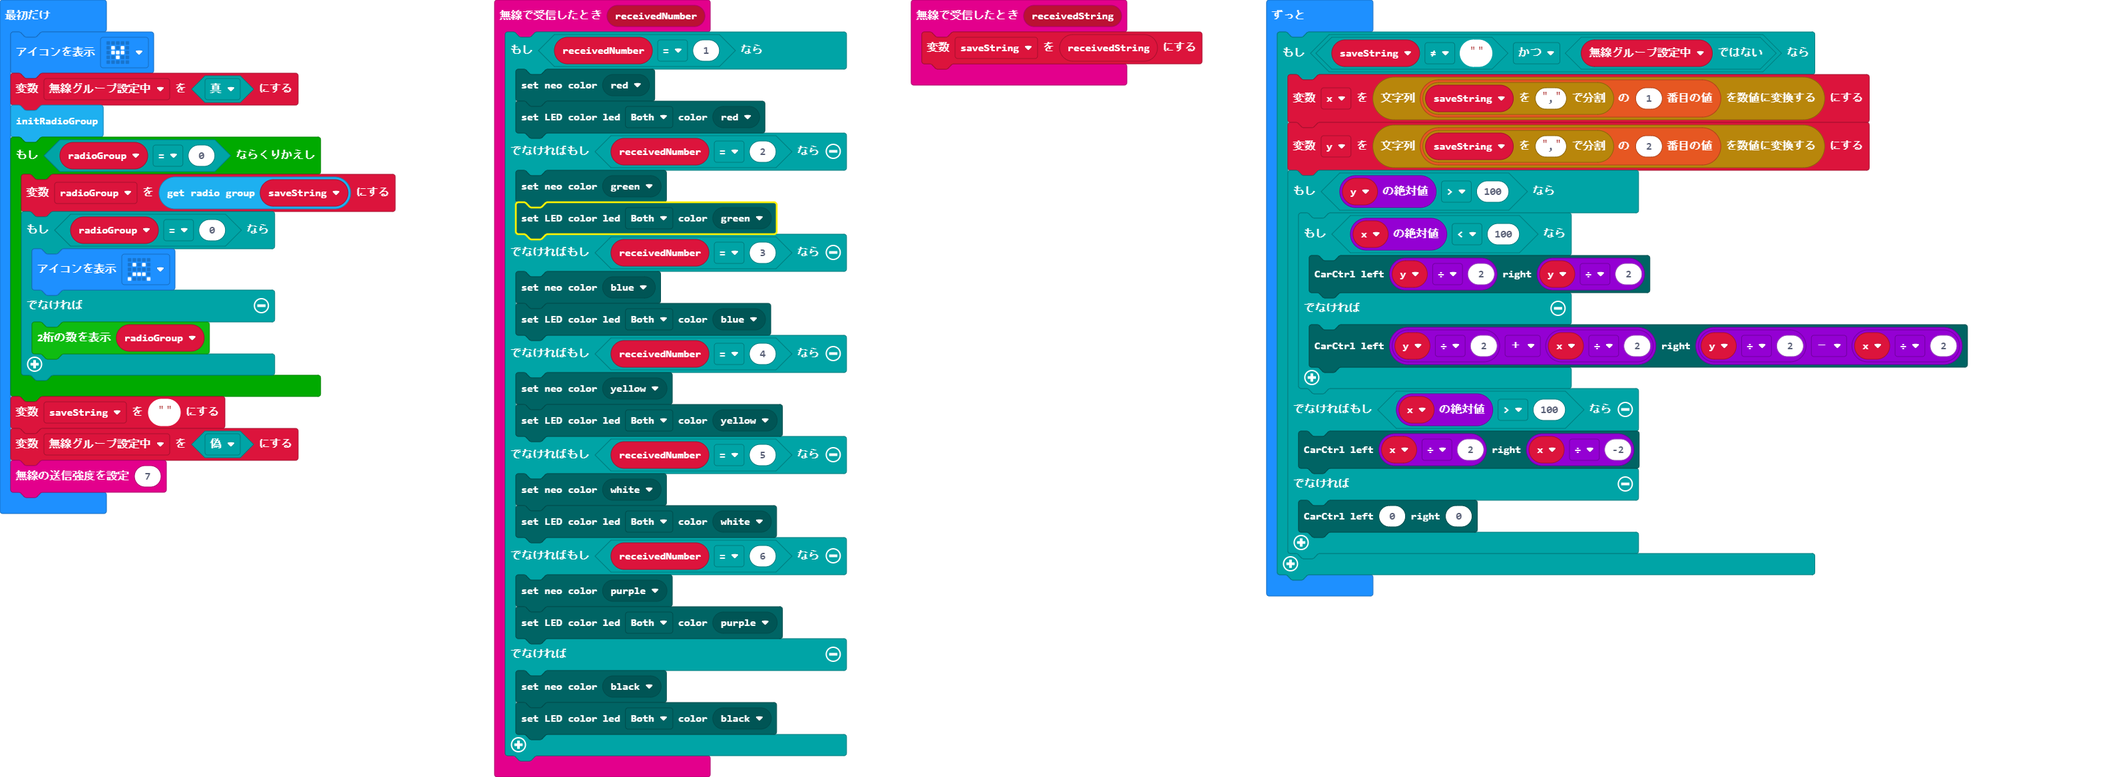
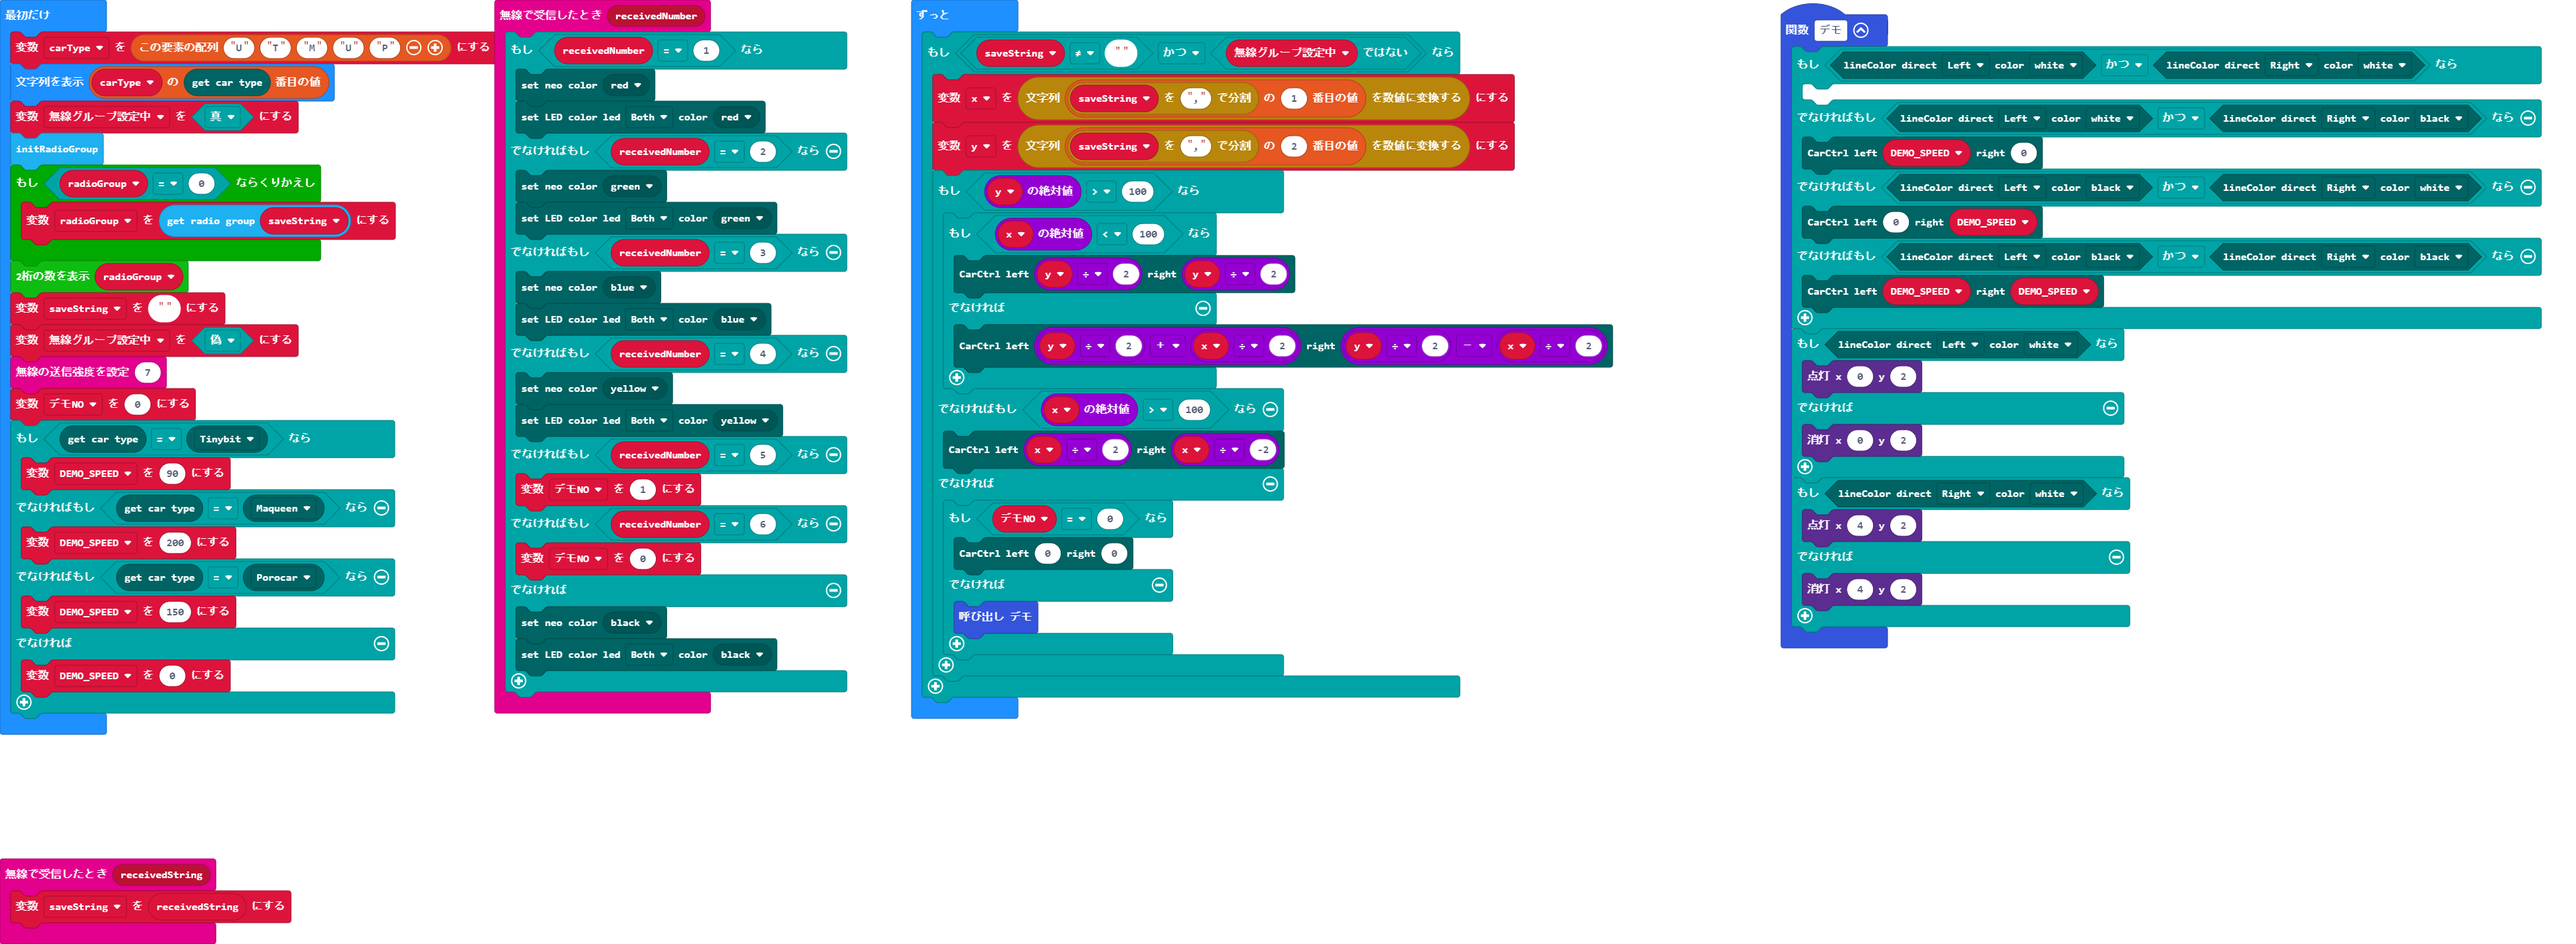
更新 pxt.json, main.blocks, main.ts

diff --git a/main.ts b/main.ts
@@ -1,3 +1,24 @@
+function デモ () {
+    if (carcotrol.getLineColor(Position.Left, lineColor.White) && carcotrol.getLineColor(Position.Right, lineColor.White)) {
+    	
+    } else if (carcotrol.getLineColor(Position.Left, lineColor.White) && carcotrol.getLineColor(Position.Right, lineColor.Black)) {
+        carcotrol.carCtrl(DEMO_SPEED, 0)
+    } else if (carcotrol.getLineColor(Position.Left, lineColor.Black) && carcotrol.getLineColor(Position.Right, lineColor.White)) {
+        carcotrol.carCtrl(0, DEMO_SPEED)
+    } else if (carcotrol.getLineColor(Position.Left, lineColor.Black) && carcotrol.getLineColor(Position.Right, lineColor.Black)) {
+        carcotrol.carCtrl(DEMO_SPEED, DEMO_SPEED)
+    }
+    if (carcotrol.getLineColor(Position.Left, lineColor.White)) {
+        led.plot(0, 2)
+    } else {
+        led.unplot(0, 2)
+    }
+    if (carcotrol.getLineColor(Position.Right, lineColor.White)) {
+        led.plot(4, 2)
+    } else {
+        led.unplot(4, 2)
+    }
+}
 radio.onReceivedNumber(function (receivedNumber) {
     if (receivedNumber == 1) {
         carcotrol.setNeoColor(carcotrol.colors(RGBColors.Red))
@@ -12,11 +33,9 @@ radio.onReceivedNumber(function (receivedNumber) {
         carcotrol.setNeoColor(carcotrol.colors(RGBColors.Yellow))
         carcotrol.setLED(Position.Both, carcotrol.colors(RGBColors.Yellow))
     } else if (receivedNumber == 5) {
-        carcotrol.setNeoColor(carcotrol.colors(RGBColors.White))
-        carcotrol.setLED(Position.Both, carcotrol.colors(RGBColors.White))
+        デモNO = 1
     } else if (receivedNumber == 6) {
-        carcotrol.setNeoColor(carcotrol.colors(RGBColors.Purple))
-        carcotrol.setLED(Position.Both, carcotrol.colors(RGBColors.Purple))
+        デモNO = 0
     } else {
         carcotrol.setNeoColor(carcotrol.colors(RGBColors.Black))
         carcotrol.setLED(Position.Both, carcotrol.colors(RGBColors.Black))
@@ -27,22 +46,31 @@ radio.onReceivedString(function (receivedString) {
 })
 let y = 0
 let x = 0
+let DEMO_SPEED = 0
+let デモNO = 0
 let saveString = ""
 let radioGroup = 0
-basic.showIcon(IconNames.SmallHeart)
+let carType2 = ["U", "T", "M", "U", "P"]
+basic.showString("" + (carType2[carcotrol.getCarType()]))
 let 無線グループ設定中 = true
 getradiogroup.initRadioGroup()
 while (radioGroup == 0) {
     radioGroup = getradiogroup.getRadioGroup(saveString)
-    if (radioGroup == 0) {
-        basic.showIcon(IconNames.Sad)
-    } else {
-        watchfont.showNumber2(radioGroup)
-    }
 }
+watchfont.showNumber2(radioGroup)
 saveString = ""
 無線グループ設定中 = false
 radio.setTransmitPower(7)
+デモNO = 0
+if (carcotrol.getCarType() == carcotrol.car(carType.Tinybit)) {
+    DEMO_SPEED = 90
+} else if (carcotrol.getCarType() == carcotrol.car(carType.Maqueen)) {
+    DEMO_SPEED = 200
+} else if (carcotrol.getCarType() == carcotrol.car(carType.Porocar)) {
+    DEMO_SPEED = 150
+} else {
+    DEMO_SPEED = 0
+}
 basic.forever(function () {
     if (saveString != "" && !(無線グループ設定中)) {
         x = parseFloat(saveString.split(",")[1])
@@ -56,7 +84,11 @@ basic.forever(function () {
         } else if (Math.abs(x) > 100) {
             carcotrol.carCtrl(x / 2, x / -2)
         } else {
-            carcotrol.carCtrl(0, 0)
+            if (デモNO == 0) {
+                carcotrol.carCtrl(0, 0)
+            } else {
+                デモ()
+            }
         }
     }
 })
